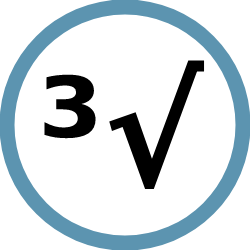
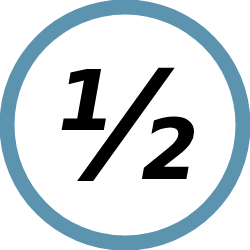
Total Revamp

Changed region(s): [[0.168, 0.224, 0.84, 0.756]]

diff --git a/assets/problemData.js b/assets/problemData.js
@@ -116,32 +116,107 @@ export const PROBLEMS = {
             correctAns: "5"
         }, 
         question4: {
-            question: "What is 10 ÷ 2?",
+            question: "What is 12 ÷ 6?",
             choice1: "2",
-            choice2: "5",
-            choice3: "1",
-            choice4: "4",
-            correctAns: "5"
+            choice2: "1",
+            choice3: "3",
+            choice4: "0",
+            correctAns: "2"
         }, 
-    },
-    advancedOperations: {
-        question1: {
-            question: "What is 7 x 5?",
-            choice1: "20",
-            choice2: "35",
-            choice3: "45",
-            choice4: "50",
-            correctAns: "35"
+        question5: {
+            question: "What is 20 x 20?",
+            choice1: "16",
+            choice2: "40",
+            choice3: "160",
+            choice4: "400",
+            correctAns: "400"
+        },
+        question6: {
+            question: "What is 10 x 8?",
+            choice1: "16",
+            choice2: "80",
+            choice3: "70",
+            choice4: "400",
+            correctAns: "80"
         }, 
-        question2: {
-            question: "What is 8 x 12?",
-            choice1: "96",
+        question7: {
+            question: "What is 639 ÷ 639?",
+            choice1: "22",
+            choice2: "1",
+            choice3: "639",
+            choice4: "0",
+            correctAns: "1"
+        },
+        question8: {
+            question: "What is 69 ÷ 1?",
+            choice1: "13",
+            choice2: "1",
+            choice3: "69",
+            choice4: "0",
+            correctAns: "69"
+        }, 
+        question9: {
+            question: "What is 57 x 1?",
+            choice1: "87",
+            choice2: "62",
+            choice3: "57",
+            choice4: "114",
+            correctAns: "57"
+        },
+        question10: {
+            question: "What is 912 x 0?",
+            choice1: "2",
+            choice2: "34",
+            choice3: "0",
+            choice4: "12",
+            correctAns: "0"
+        },
+        question11: {
+            question: "Jack buys 8 ducks for $4 each. How much does he spend?",
+            choice1: "$24",
+            choice2: "$32",
+            choice3: "$42",
+            choice4: "$2",
+            correctAns: "$32"
+        },
+        question12: {
+            question: "Ryan has 7 packs of cola. Each pack has 6 colas. How many colas does he have?",
+            choice1: "36",
+            choice2: "26",
+            choice3: "42",
+            choice4: "38",
+            correctAns: "42"
+        },
+        question13: {
+            question: "Yotam shares 16 rocks equally between 4 people. How many rocks does each person get?",
+            choice1: "12",
             choice2: "64",
-            choice3: "86",
-            choice4: "94",
-            correctAns: "96"
-        }, 
+            choice3: "4",
+            choice4: "6",
+            correctAns: "4"
+        },
+        question14: {
+            question: "Maria the chicken has 30 seeds. She evenly stores them in 6 boxes. How many seeds are in each box?",
+            choice1: "6",
+            choice2: "5",
+            choice3: "11",
+            choice4: "8",
+            correctAns: "5"
+        },
+        question15: {
+            question: "Zack sells 4 pies for $6 each. He then splits the money between him and 7 friends. How much money does each person get?",
+            choice1: "$4",
+            choice2: "$3",
+            choice3: "$6",
+            choice4: "$1",
+            correctAns: "$3"
+        },
     },
+    
+    decimalsFractions: {
+
+    },
+
     review1: {
         question1: {
             question: "What is 7 x 5?",
@@ -159,5 +234,49 @@ export const PROBLEMS = {
             choice4: "94",
             correctAns: "96"
         }, 
-    }
+    },
+
+    //²³⁴
+    advancedOperations: {
+        question1: {
+            question: "What is 3²?",
+            choice1: "9",
+            choice2: "2",
+            choice3: "6",
+            choice4: "1",
+            correctAns: "9"
+        }, 
+        question2: {
+            question: "What is 2³?",
+            choice1: "2",
+            choice2: "6",
+            choice3: "8",
+            choice4: "7",
+            correctAns: "8"
+        },
+        question3: {
+            question: "What is √9?",
+            choice1: "9",
+            choice2: "18",
+            choice3: "3",
+            choice4: "2",
+            correctAns: "3"
+        }, 
+        question4: {
+            question: "What is √36?",
+            choice1: "17",
+            choice2: "4",
+            choice3: "6",
+            choice4: "10",
+            correctAns: "6"
+        }, 
+        question5: {
+            question: "√19²",
+            choice1: "12",
+            choice2: "19",
+            choice3: "21",
+            choice4: "25",
+            correctAns: "19"
+        }, 
+    },
 }

diff --git a/screens/QuizScreen.js b/screens/QuizScreen.js
@@ -104,8 +104,10 @@ export default class HomeScreen extends React.Component{
     otherViewRef = ref => {this.view2 = ref};
     bounceInDown = () => {this.view.bounceInDown(1250)}
     bounceOutUp = () => {this.view.bounceOutUp(750)}
+    bounceOutLeft = () => {this.view.bounceOutLeft(750)}
     bounceIn = () => {this.view2.bounceIn(1250)}
     bounceOut = () => {this.view2.bounceOut(700)}
+    bounceOutRight = () => {this.view2.bounceOutRight(700)}
 
     componentDidMount(){
         this.updateQuestions(this.state.questionNumber);
@@ -127,6 +129,31 @@ export default class HomeScreen extends React.Component{
                 </TouchableOpacity>}
                 centerComponent={{text: "Quiz App",
                 style:{fontSize: 32, color: "white", fontWeight: "bold"}}}
+
+                rightComponent={
+                    <TouchableOpacity style={{alignSelf: "center"}}
+                    onPress={
+                        ()=>{
+                            this.setState({
+                                selectedAns: "Skipped"
+                            })
+                            try{
+                                this.bounceOutLeft();
+                                this.bounceOutRight();
+                                setTimeout(() => {
+                                    this.bounceInDown()
+                                    this.bounceIn()
+                                    this.nextProblem();
+                                }, 750)
+                            }catch{
+                                this.nextProblem();
+                            }
+                        }}>
+                        <Text style={{fontSize: 24, color: "yellow", 
+                        fontWeight: "bold", justifyContent: "center"}}>
+                            Skip
+                        </Text>
+                    </TouchableOpacity>}
                 backgroundColor={COLORS.headerColor}/>
 
                 <View style={styles.topBar}>
@@ -136,7 +163,10 @@ export default class HomeScreen extends React.Component{
                 </View>
 
                 <Animatable.Text duration={1500} animation="bounceInDown"
-                    ref={this.handleViewRef} style={styles.title}>Q{this.state.questionNumber}: {this.state.currentQuestion}</Animatable.Text>
+                    ref={this.handleViewRef} style={[styles.title, this.state.currentQuestion.length > 50
+                        ? {fontSize: 30}
+                        : null
+                    ]}>Q{this.state.questionNumber}: {this.state.currentQuestion}</Animatable.Text>
 
                 <Animatable.View ref={this.otherViewRef}>
                 {
@@ -280,7 +310,11 @@ const styles = StyleSheet.create({
         alignContent: "center",
         justifyContent: "center",
 
-        marginTop: "10%"
+        marginTop: "10%",
+
+        shadowColor: "black",
+        shadowOpacity: 0.3,
+        shadowOffset: {width: 4, height: 4}
     },
 
     submitText: {

diff --git a/assets/quizData.js b/assets/quizData.js
@@ -2,7 +2,7 @@ export const QUIZZES = [
     {
         title: "Basic Operations",
         badge: require("../assets/badge1.png"),
-        description: `A slew of simple math problems that utilizes both addition and a bit of some subtraction.`,
+        description: `A show slew of simple math problems that use both addition and a bit of some subtraction.`,
         length: "Short",
         questions: 5,
     },
@@ -11,20 +11,27 @@ export const QUIZZES = [
         badge: require("../assets/badge2.png"),
         description: `A grouping of math problems which now include multiplication and division in them.`,
         length: "Medium",
-        questions: 7,
+        questions: 8,
     },
     {
-        title: "Advanced Operations",
+        title: "Decimals and Fractions",
         badge: require("../assets/badge3.png"),
-        description: `Now the problems will begin to use some roots and exponents to really mix things up.`,
-        length: "Lengthy",
-        questions: 15,
+        description: `Decimals and fractions will now be added to the problems as to mix things up a bit.`,
+        length: "Medium",
+        questions: 8,
     },
     {
         title: "Review #1",
         badge: require("../assets/badgeTest.png"),
         description: `Review the previous lessons to see how much you learned, or what you already know.`,
         length: "Assessment",
-        questions: 20,
+        questions: 15,
+    },
+    {
+        title: "Advanced Operations",
+        badge: require("../assets/badge4.png"),
+        description: `Now that the basics are understood, we'll look at some roots and exponents.`,
+        length: "Lengthy",
+        questions: 12,
     },
 ]

diff --git a/screens/ReviewScreen.js b/screens/ReviewScreen.js
@@ -26,6 +26,12 @@ export default class ReviewScreen extends React.Component{
                 <Text style={styles.flatListSubtext}>You Picked: {item.selectedAnswer}</Text>
                 <Text style={styles.flatListSubtext}>Correct Answer: {item.correctAnswer}</Text>
             </View>)
+        }else if(item.selectedAnswer === "Skipped"){
+            return(<View style={[styles.flatListView,{backgroundColor: "#e8d4b0"}]}>
+                <Text style={styles.flatListTitle}>Question: {item.question}</Text>
+                <Text style={[styles.flatListSubtext,{fontStyle: "italic"}]}>Problem Skipped</Text>
+                <Text style={styles.flatListSubtext}>Correct Answer: {item.correctAnswer}</Text>
+            </View>)
         }else{
             return(<View style={[styles.flatListView,{backgroundColor: "#e0adb1"}]}>
                 <Text style={styles.flatListTitle}>Question: {item.question}</Text>

diff --git a/screens/HomeScreen.js b/screens/HomeScreen.js
@@ -18,7 +18,7 @@ export default class HomeScreen extends React.Component{
         }else if(data === "Medium"){
             return(<View style={{backgroundColor: "#e8e810",borderRadius: 10,
             padding: 5, alignSelf: "center", marginTop: "2%"}}>
-                <Text style={{color: "#9c9c00", fontWeight: "bold"}}>
+                <Text style={{color: "#828201", fontWeight: "bold"}}>
                 {data}
                 </Text>
             </View>)
@@ -122,6 +122,7 @@ const styles = StyleSheet.create({
         color: "white",
         fontWeight: "bold",
         alignSelf: "center",
+        textAlign: "center"
     },
 
     quizDescription:{

diff --git a/screens/LoadingScreen.js b/screens/LoadingScreen.js
@@ -33,6 +33,8 @@ export default class LoadingScreen extends React.Component{
             this.questions = PROBLEMS.moreOperations
         }else if(type === "Advanced Operations"){
             this.questions = PROBLEMS.advancedOperations
+        }else if(type === "Decimals and Fractions"){
+            this.questions = PROBLEMS.decimalsFractions
         }else if(type === "Review #1"){
             this.questions = PROBLEMS.review1
         }
